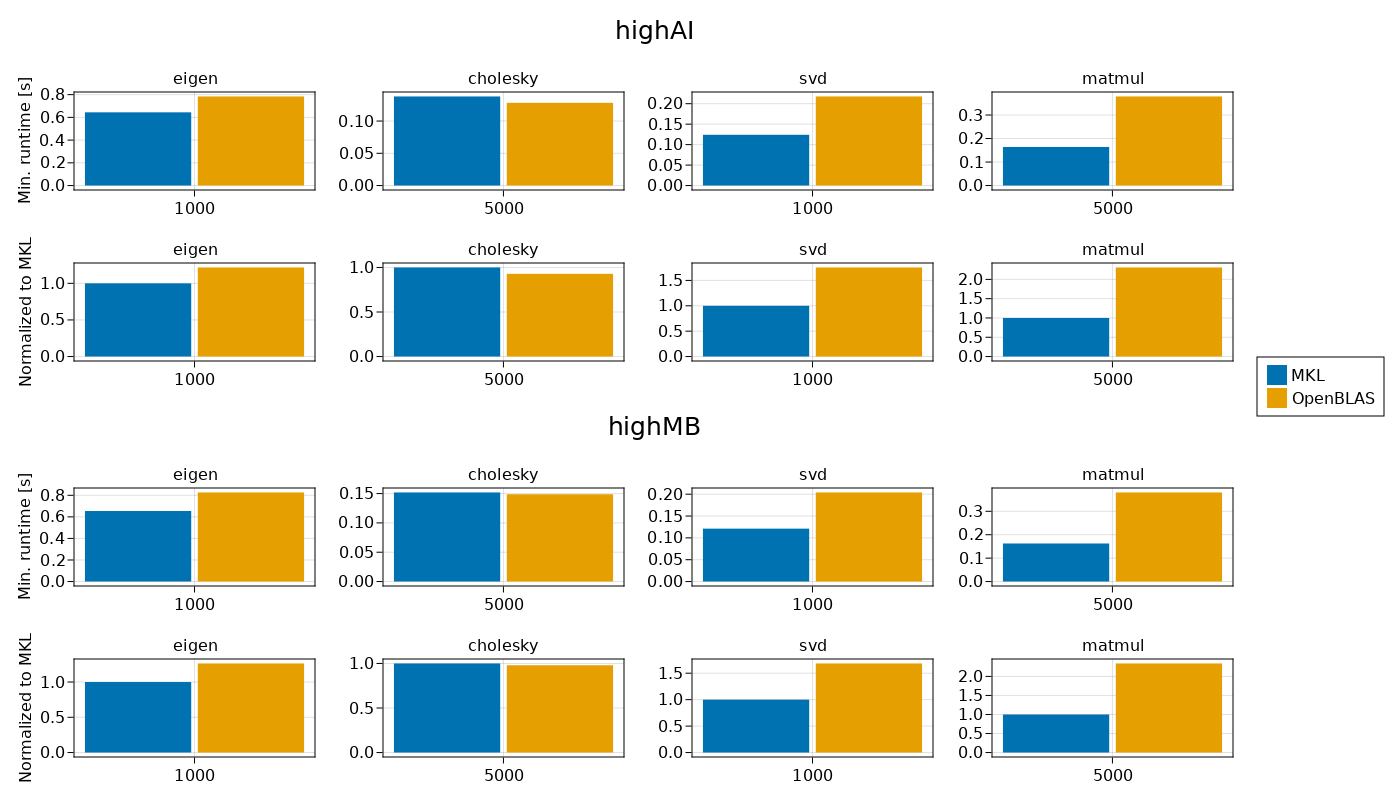
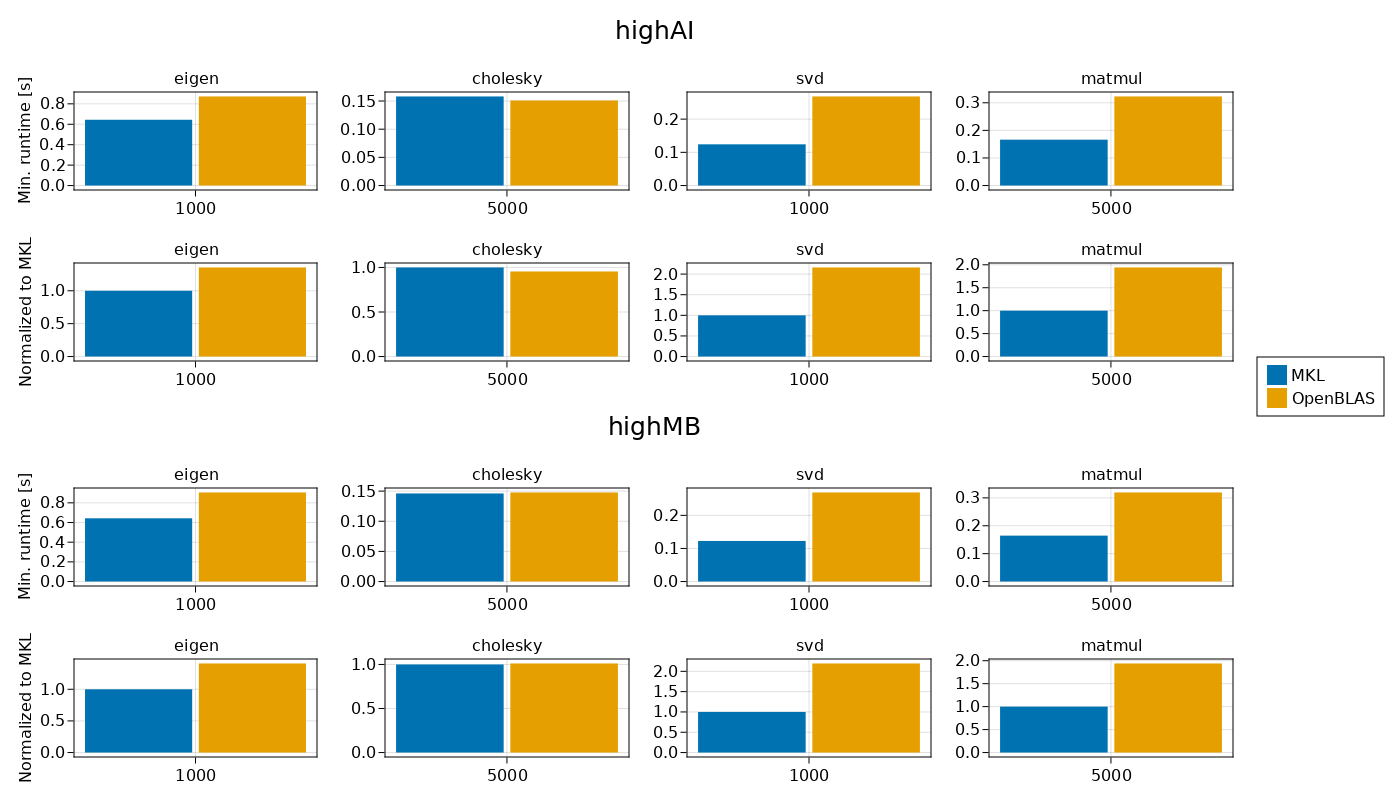
push

diff --git a/README.md b/README.md
@@ -2,6 +2,9 @@
 
 Intel MKL vs OpenBLAS on [Noctua 2](https://pc2.uni-paderborn.de/hpc-services/available-systems/noctua2) (AMD EPYC 7763 64-Core CPU) in Julia.
 
+**Remarks:**
+* The tests have been run with Julia version 1.8.0-beta3 since in 1.7 (current stable version) the maximal number of OpenBLAS threads is fixed to 32 and our nodes have more cores available.
+
 ## Acknowledgements
 
 Heavily inspired by https://docs.nersc.gov/development/languages/python/python-amd/.
